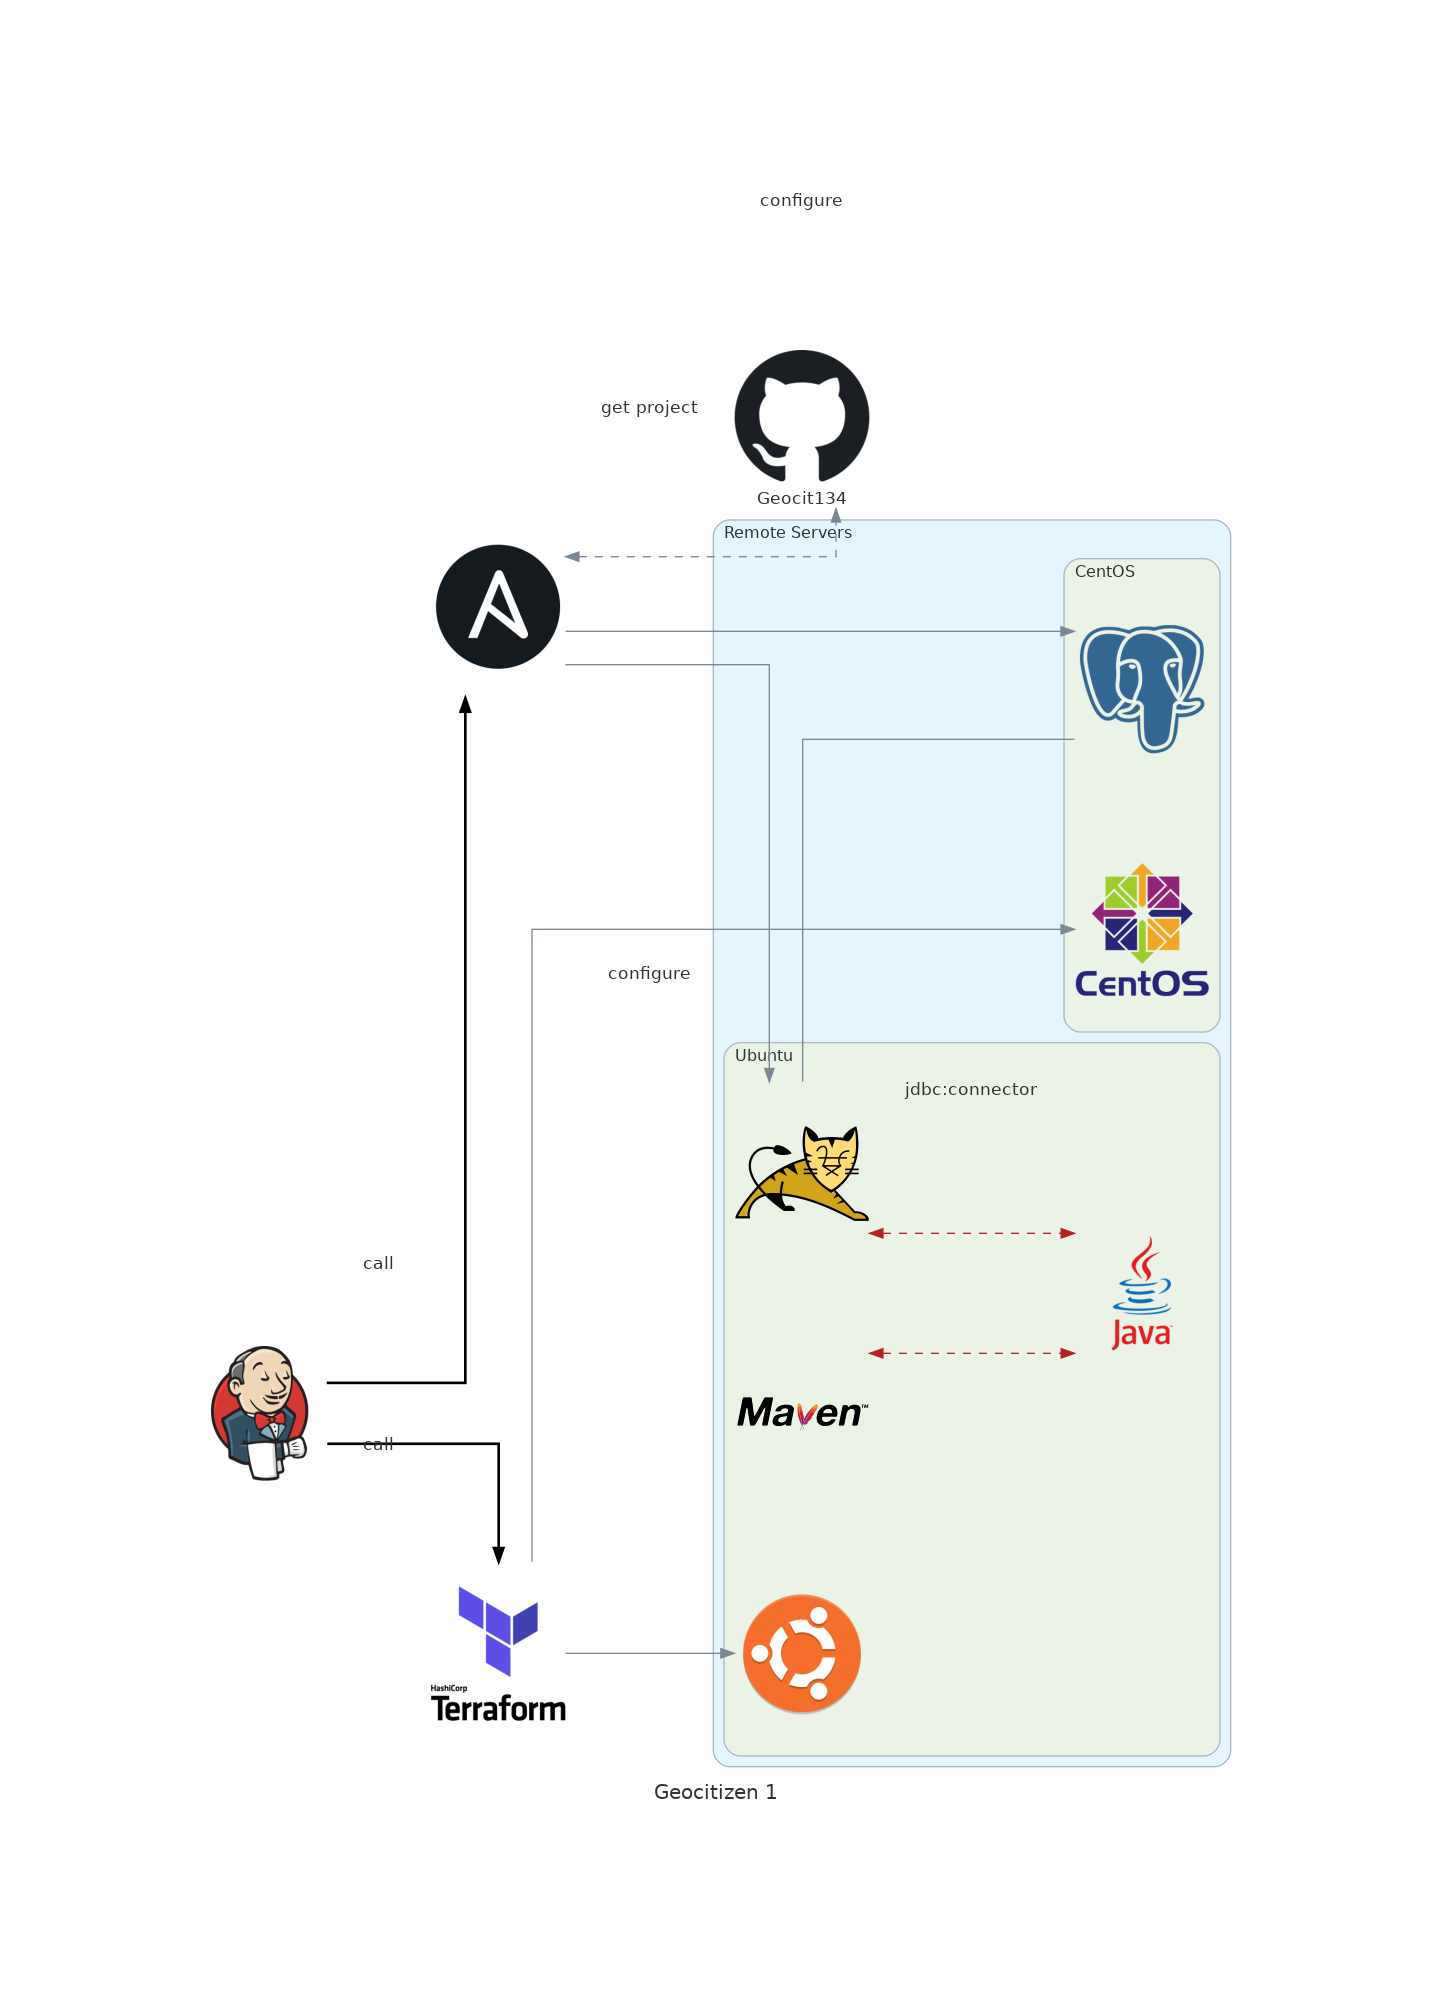
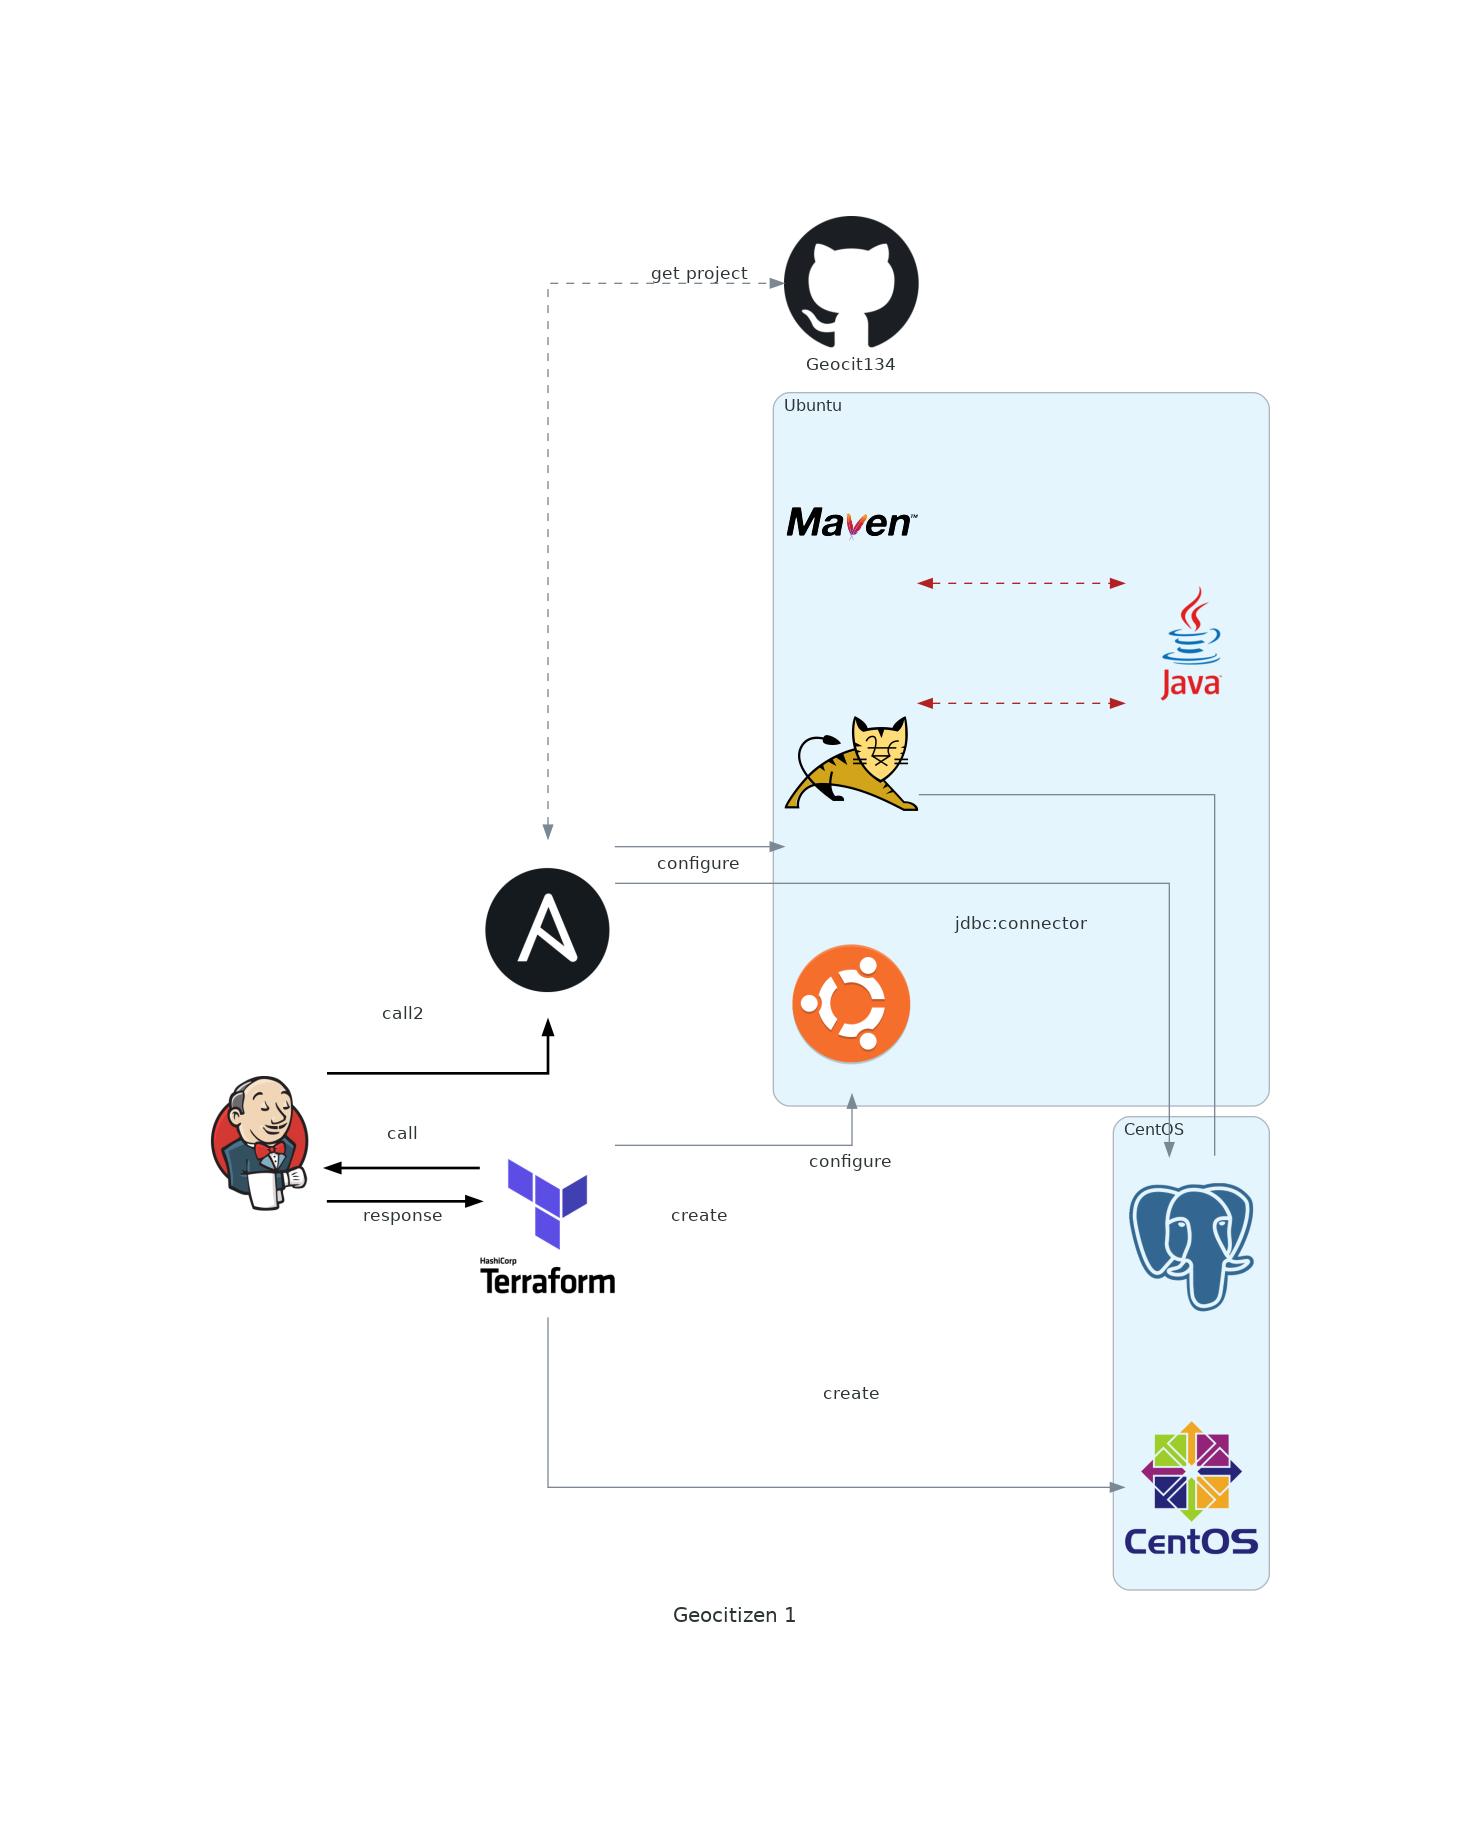
DC2-41 files: start of new variant

diff --git a/DaaC/diagram1.py b/DaaC/diagram1.py
@@ -24,63 +24,53 @@ from diagrams.onprem.vcs import Github
 
 # entrypoint
 with Diagram("Geocitizen 1",  filename="Geocitizen1", show=False):
-    #Jenkins("orchestartion")
-    #Ansible("configuring")
-    #Terraform("deploying")
-    #Server("host1")
-    #Server("host2")
-    
-    # custom
-    
-    #with Cluster("???"):
-        
-        #Tomcat = Custom("Tomcat 9", "./img/tomcat.png")
 
-        #servers = [
-        #    Tomcat \
-        #    >> Edge(label="jdbc:connector")
-        #    >> Postgresql("PostgreSQL 9")
-        #]
     jenkins = Jenkins()
     github = Github("Geocit134")
     ansible = Ansible()
     terraform = Terraform()
 
-    with Cluster("Remote Servers"):
+   # with Cluster("Remote Servers"):
         
         
-        with Cluster("Ubuntu") as wer:
-            java = Java()
-            ubuntu = Ubuntu()
-            tomcat = Custom("", "./img/tomcat.png")
-            maven = Custom("", "./img/maven.png")
+    with Cluster("Ubuntu", direction="LR") as wer:
+        java = Java()
+        ubuntu = Ubuntu()
+        tomcat = Custom("", "./img/tomcat.png")
+        maven = Custom("", "./img/maven.png")
 
-            tomcat \
-            >> Edge(color="firebrick", style="dashed") \
-            << java
-            maven \
-            >> Edge(color="firebrick", style="dashed") \
-            << java
+        tomcat \
+        >> Edge(color="firebrick", style="dashed") \
+        << java
+        maven \
+        >> Edge(color="firebrick", style="dashed") \
+        << java
 
-        with Cluster("CentOS"):
-            psql = Postgresql()
-            centos = Centos()
+    with Cluster("CentOS"):
+        psql = Postgresql()
+        centos = Centos()
 
     tomcat - \
         Edge(label="jdbc:connector") \
         - psql
 
-    jenkins \
-        >> Edge(label="call", style="bold", color="black") \
-        >> ansible \
-        >> Edge(label="get project", style="dashed") \
-        << github
 
     jenkins \
         >> Edge(label="call", style="bold", color="black") \
         >> terraform
 
     terraform \
+        >> Edge(label="response", style="bold", color="black") \
+        >> jenkins
+
+    jenkins \
+        >> Edge(label="call2", style="bold", color="black") \
+        >> ansible \
+        >> Edge(label="get project", style="dashed") \
+        << github
+
+    terraform \
+        >> Edge(label="create") \
         >> [centos, ubuntu]
 
 

diff --git a/DaaC/diagram2.py b/DaaC/diagram2.py
@@ -1,0 +1,32 @@
+# main
+from diagrams import Diagram, Cluster, Edge
+from diagrams.custom import Custom
+
+# DevOps tools
+from diagrams.onprem.ci import Jenkins
+from diagrams.onprem.iac import Ansible
+from diagrams.onprem.iac import Terraform
+
+# base technologies
+from diagrams.onprem.compute import Server
+from diagrams.generic.virtualization import Virtualbox
+
+# OSs
+from diagrams.generic.os import Centos
+from diagrams.generic.os import Ubuntu
+from diagrams.generic.os import LinuxGeneral
+
+# base tools
+from diagrams.programming.language import Java
+from diagrams.onprem.database import Postgresql
+from diagrams.onprem.vcs import Git
+from diagrams.onprem.vcs import Github
+
+# entrypoint
+with Diagram("Geocitizen 2",  filename="Geocitizen2", show=False):
+
+    #github = Github("Geocit134")
+    jenkins = Jenkins()
+    ansible = Ansible()
+    terraform = Terraform()
+
